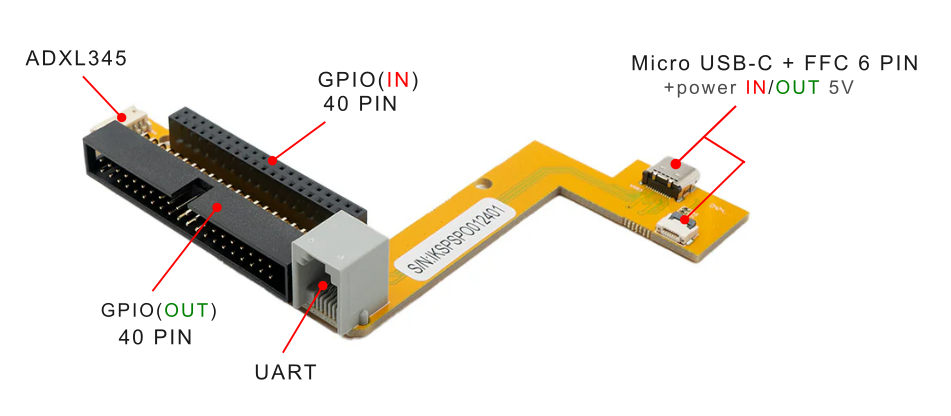
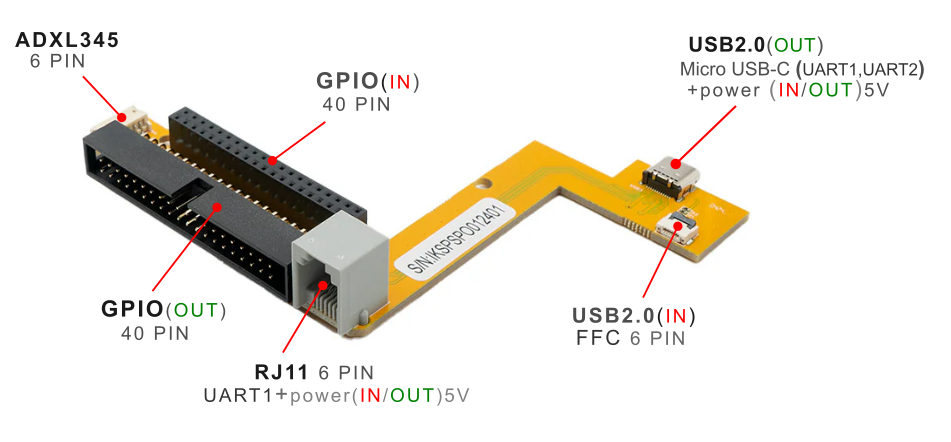
Update image SmartShied and description

diff --git a/docs/Yumi_Components/SmartShield_specifications.md b/docs/Yumi_Components/SmartShield_specifications.md
@@ -16,13 +16,16 @@ Ideal for developers, DIY enthusiasts, and educators looking to fully exploit th
 The YUMI SMART SHIELD is the essential accessory for those who want to push the capabilities of the SMART PI ONE to the maximum, simplifying interfacing with sensors and offering a robust and flexible power solution.
 
 ### Compatibility
- * GPIO 40 pin: compatible with Raspberry Pi's GPIO
+ * GPIO 40 pin compatible with Raspberry Pi's GPIO
  * With the YUMI - ADXL345 Sensor: Incorporates a specific connector for the YUMI - ADXL345 sensor, facilitating interfacing and expanding the capabilities of the SMART PI ONE without additional effort.
  * USB-C power input to double the power on the SMART PI ONE, ensuring stable and efficient power for your most demanding projects.
  
 
 ## 1.2.2 Product Parameters
-* **GPIO:** 2.54mm spacing input 40 pin/Output 40 pin compatible with Raspberry Pi's GPIO
-* **MicroUSB-C:** for data transmission and power input
-* **Product Size:** -
-* **Weight:** -
+* **GPIO:** 2.54mm spacing input 40 pin/Output 40 pin (by 45°) compatible with Raspberry Pi's GPIO
+* **USB2.0 FFC 6 PIN:** input for data transmission, in power input/ouput 5V
+* **MicroUSB-C:** for data transmission, UART1, UART2 and power input/ouput 5V
+* **RJ11 6PIN**: UART1 and power input/ouput 5V
+* **ADXL345**: 6PIN
+* **Product Size:** 11.5 mm x 84 mm
+* **Weight:** 23g

diff --git a/docs/Yumi_Components/SmartHub_specifications.md b/docs/Yumi_Components/SmartHub_specifications.md
@@ -17,5 +17,5 @@ The [YUMI SMART HUB 1 to 4](https://wanhao-europe.com/collections/yumi-retro-gam
 * For those looking for an efficient and versatile solution for powering and connecting multiple devices, the YUMI SMART HUB 1 to 4 is the ideal tool. Maximize your productivity and  simplify the management of your devices with this innovative USB hub.
 
 ## 1.2.2 Product Parameters
-* **Product Size :** -
-* **Weight :** -
+* **Product Size :** 49.5 mm x 47.5mm
+* **Weight :** 12g
